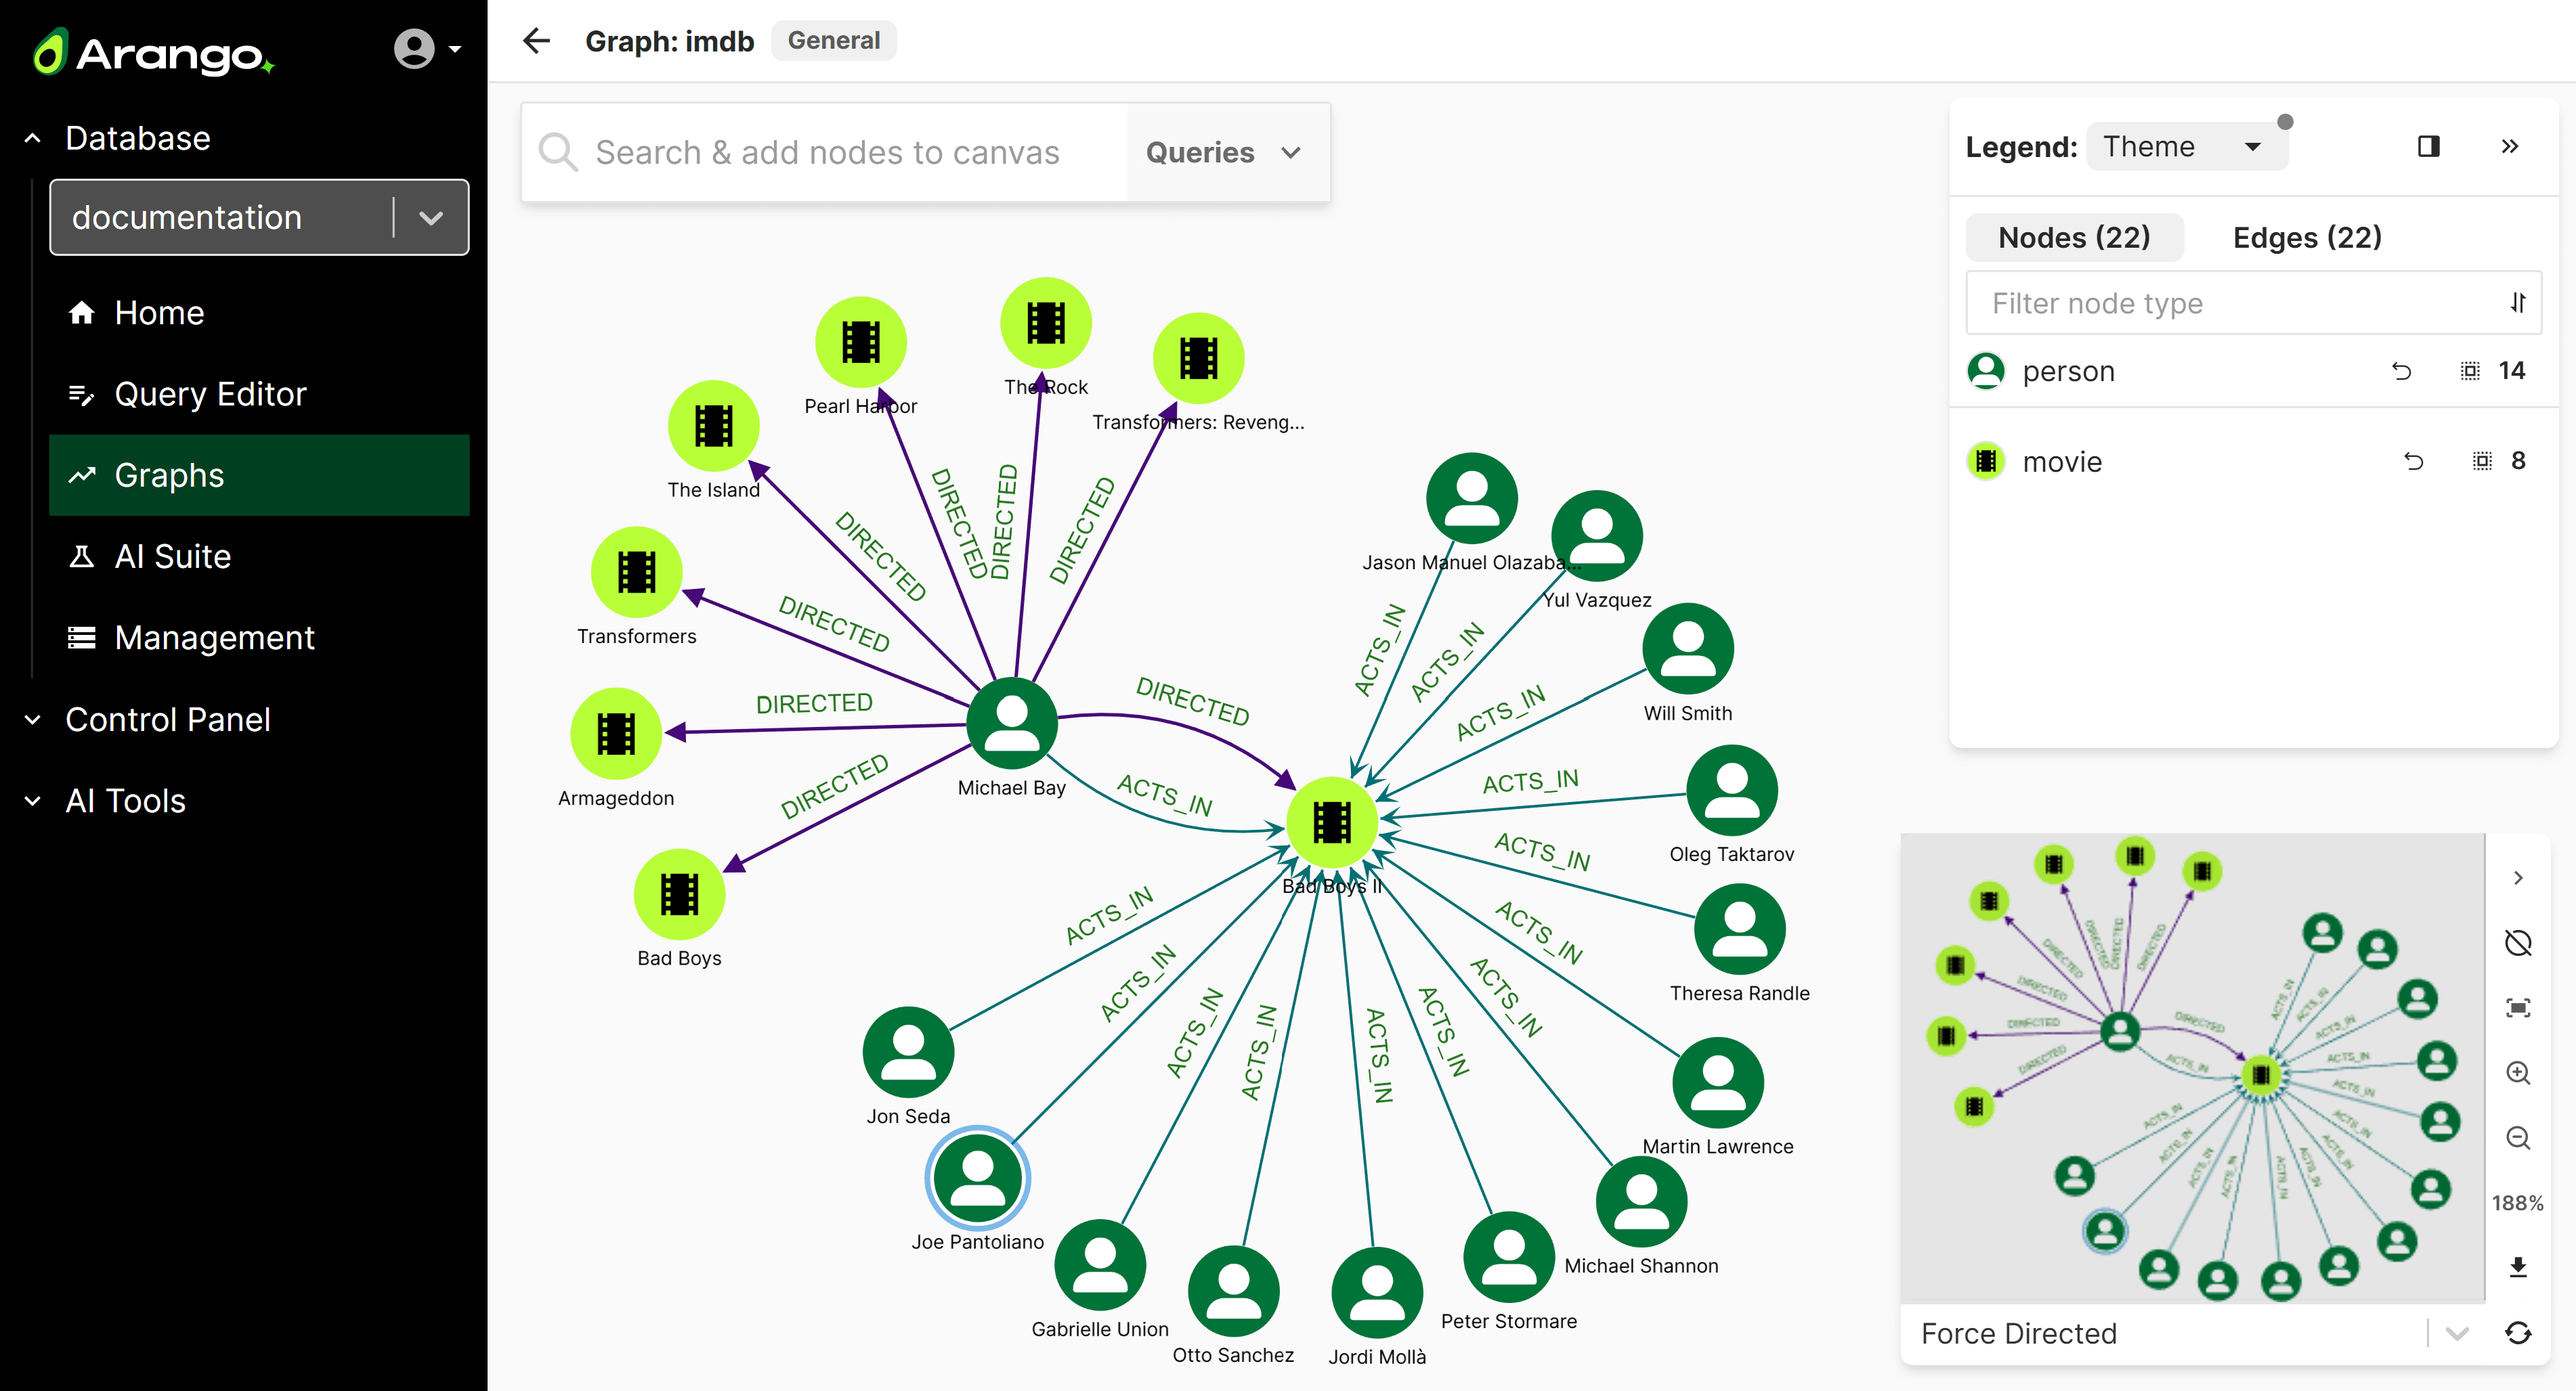
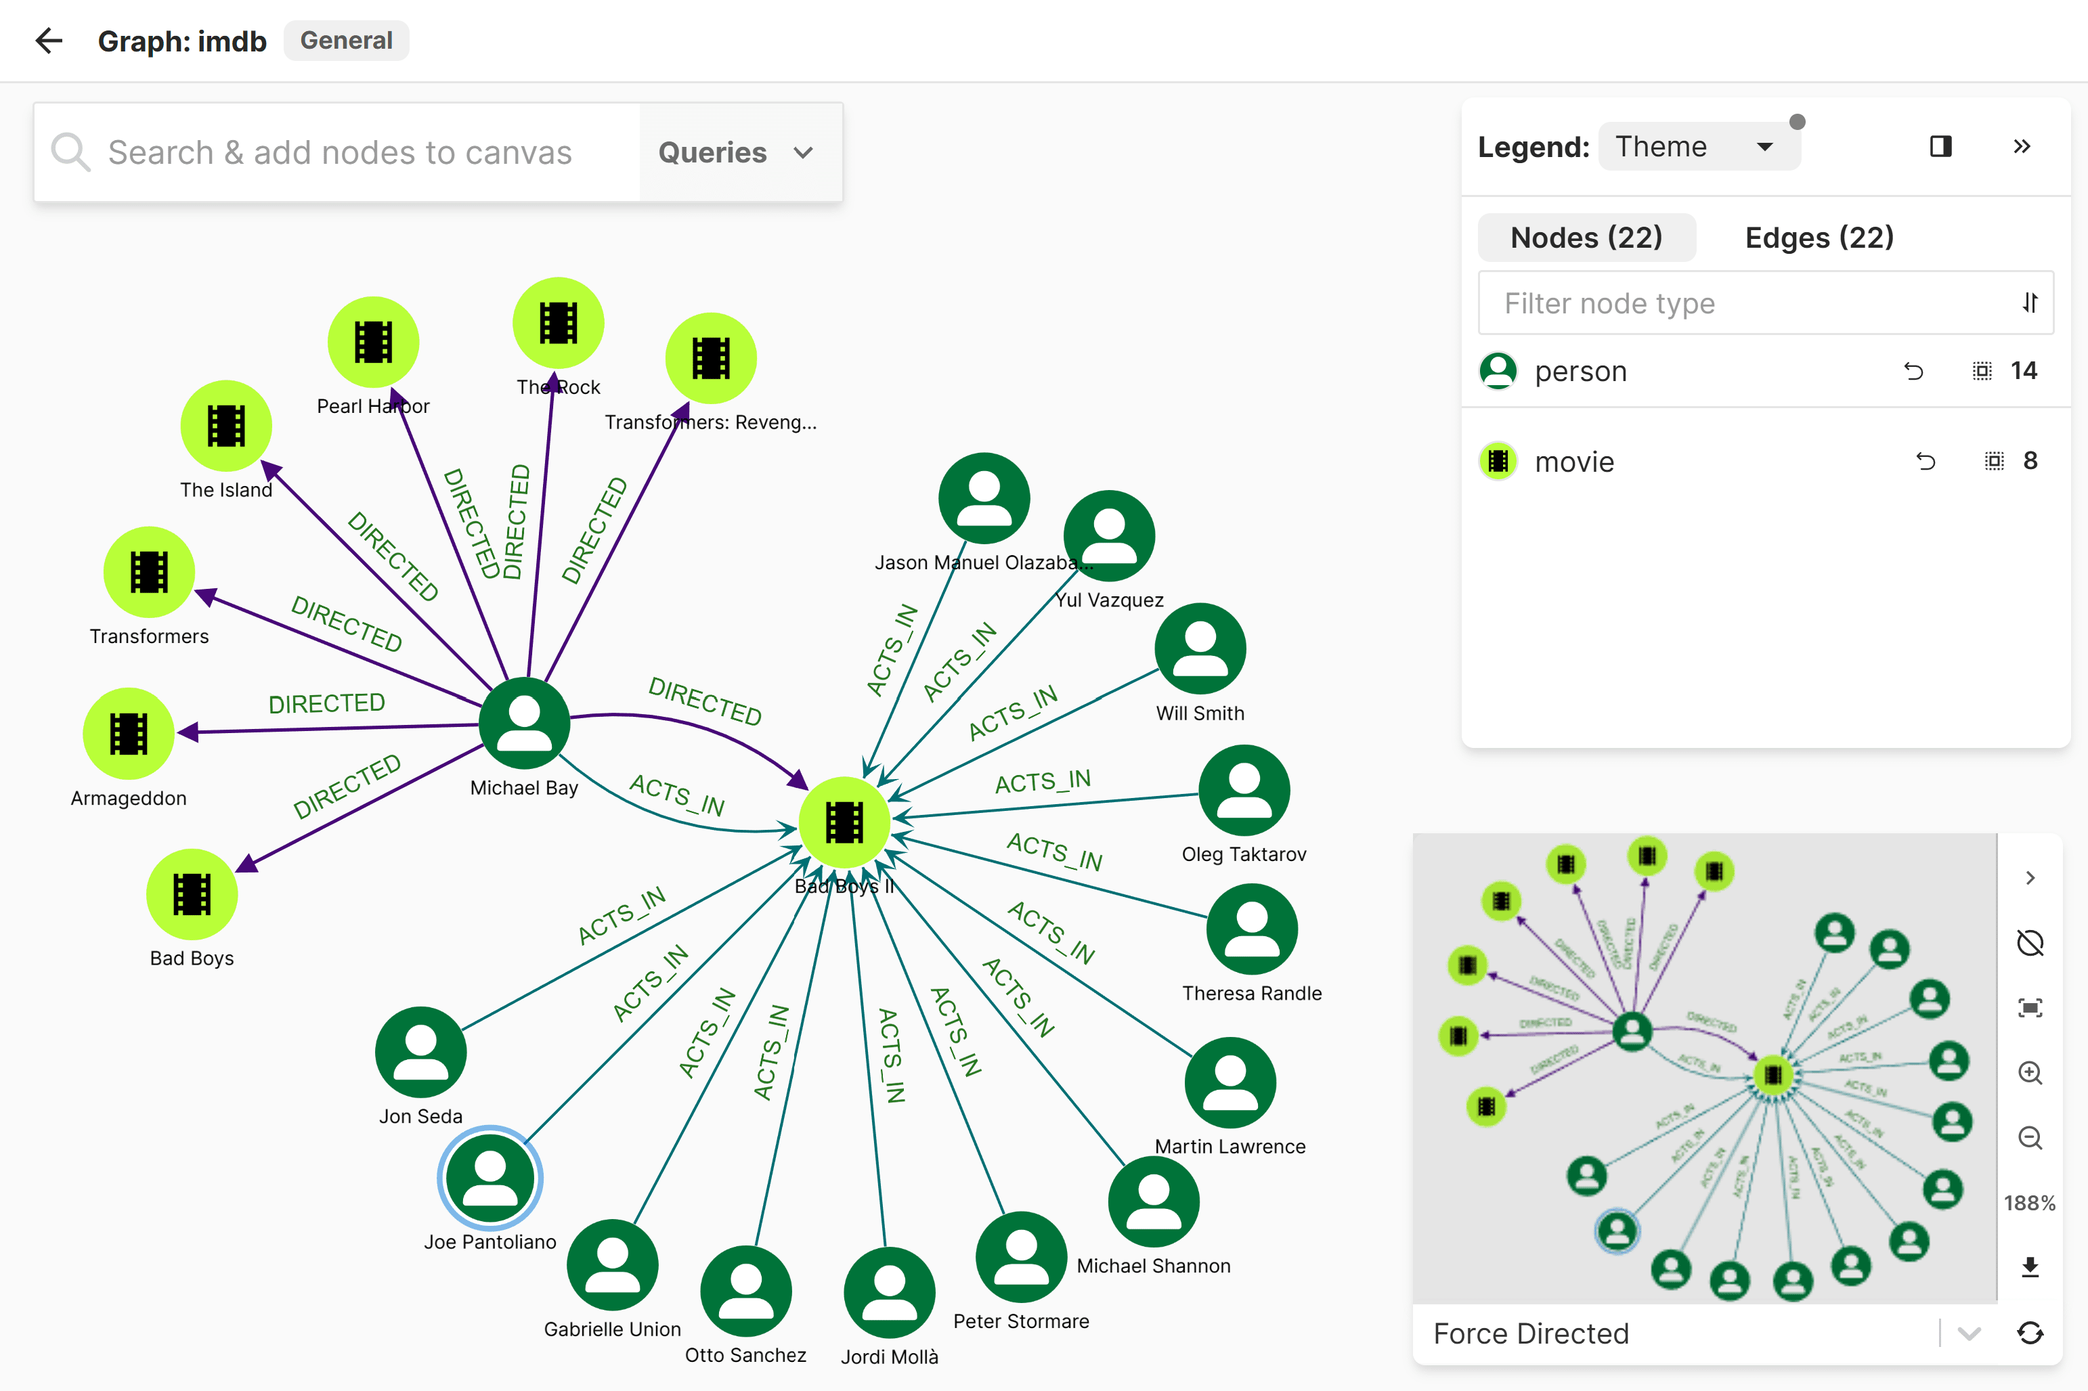
Query Editor, Graph Visualizer: update for the new sidebar
- Crop the old sidebar out of both screenshots
- Describe how to open the views from the new sidebar
- Call the Query Editor's own left panel "queries panel" to avoid
  confusion with the main sidebar

diff --git a/site/content/platform-suite/query-editor.md b/site/content/platform-suite/query-editor.md
@@ -29,8 +29,8 @@ The Query Editor of the Arango Contextual Data Platform offers the following fea
   You can download the results of queries in JSON and CSV format.
 
 - **Saved queries**:
-  You can save frequently used queries to add them to a sidebar for all users
-  in the current database.  
+  You can save frequently used queries to add them to a list for all users
+  in the current database.
 
 - **Remembered queries and results**:
   The Query Editor remembers its state including unsaved queries as well as
@@ -57,6 +57,10 @@ The Query Editor of the Arango Contextual Data Platform offers the following fea
   Analyze and optimize your AQL queries using AI-powered reasoning directly
   from the Query Editor. This feature requires a license.
 
+To open the Query Editor, click **Query Editor** in the sidebar of the
+web interface. It works with the database that is currently selected in the
+database selector.
+
 ![Screenshot of the Query Editor with an AQL query for retrieving movie documents on the left and the results displayed on the right](../images/data-platform-query-editor.png)
 
 ## Work with queries
@@ -77,8 +81,8 @@ set query options here on the **Options** tab using a **Form** or **JSON** mode.
 The following buttons are available at the bottom of a query tab:
 
 - **Save**: Store the query and the bind variables under a name you provide.
-  The saved queries of the current database are listed in the sidebar on the
-  left-hand side under **Saved**, where you can also clone, rename, and delete them.
+  The saved queries of the current database are listed in the queries panel on
+  the left-hand side under **Saved**, where you can also clone, rename, and delete them.
 - **AQLizer**: This button is only visible if you use the Arango Contextual Data Platform.
   See [Generate queries (AQLizer)](#generate-queries-aqlizer).
 - **Optimize**: This button is only visible if you have the required
@@ -126,7 +130,7 @@ You have the following actions available for queries you ran:
 
 ## Manage queries
 
-The sidebar on the left-hand side allows you to manage queries:
+The queries panel on the left-hand side of the Query Editor allows you to manage queries:
 
 - **Search queries**: Filter the list of **Saved** queries by name.
 - **Saved**: Open previously saved queries by clicking the name, or click the
